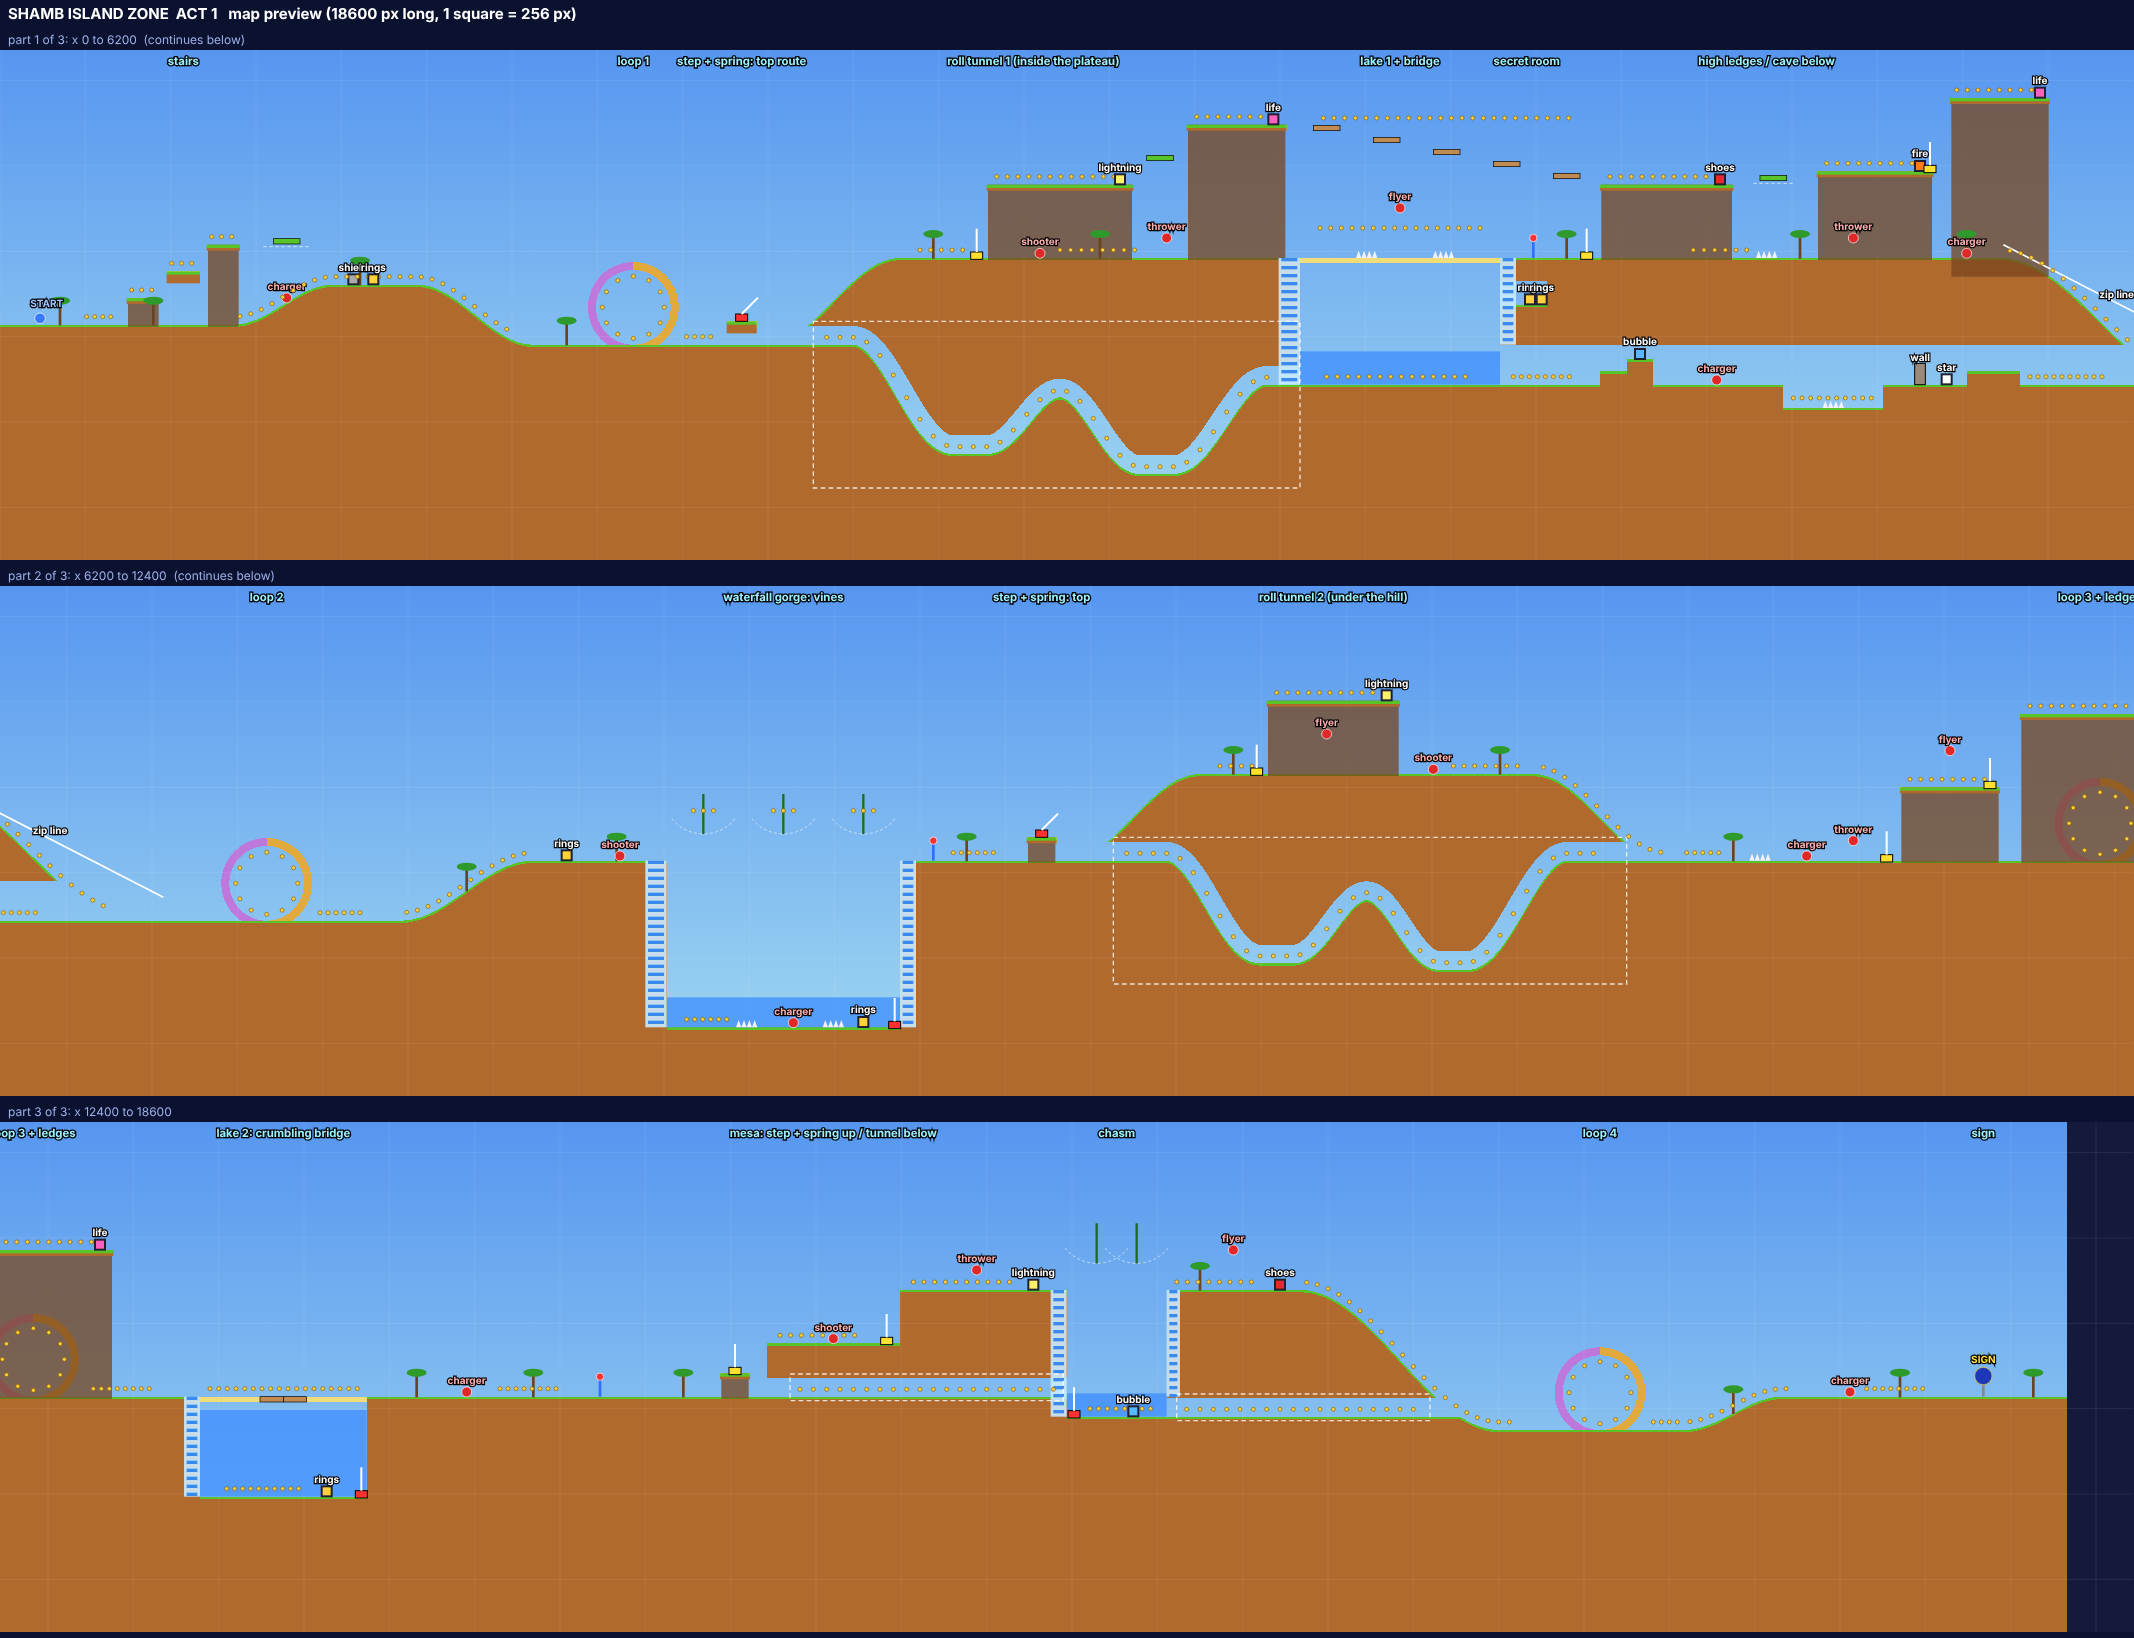
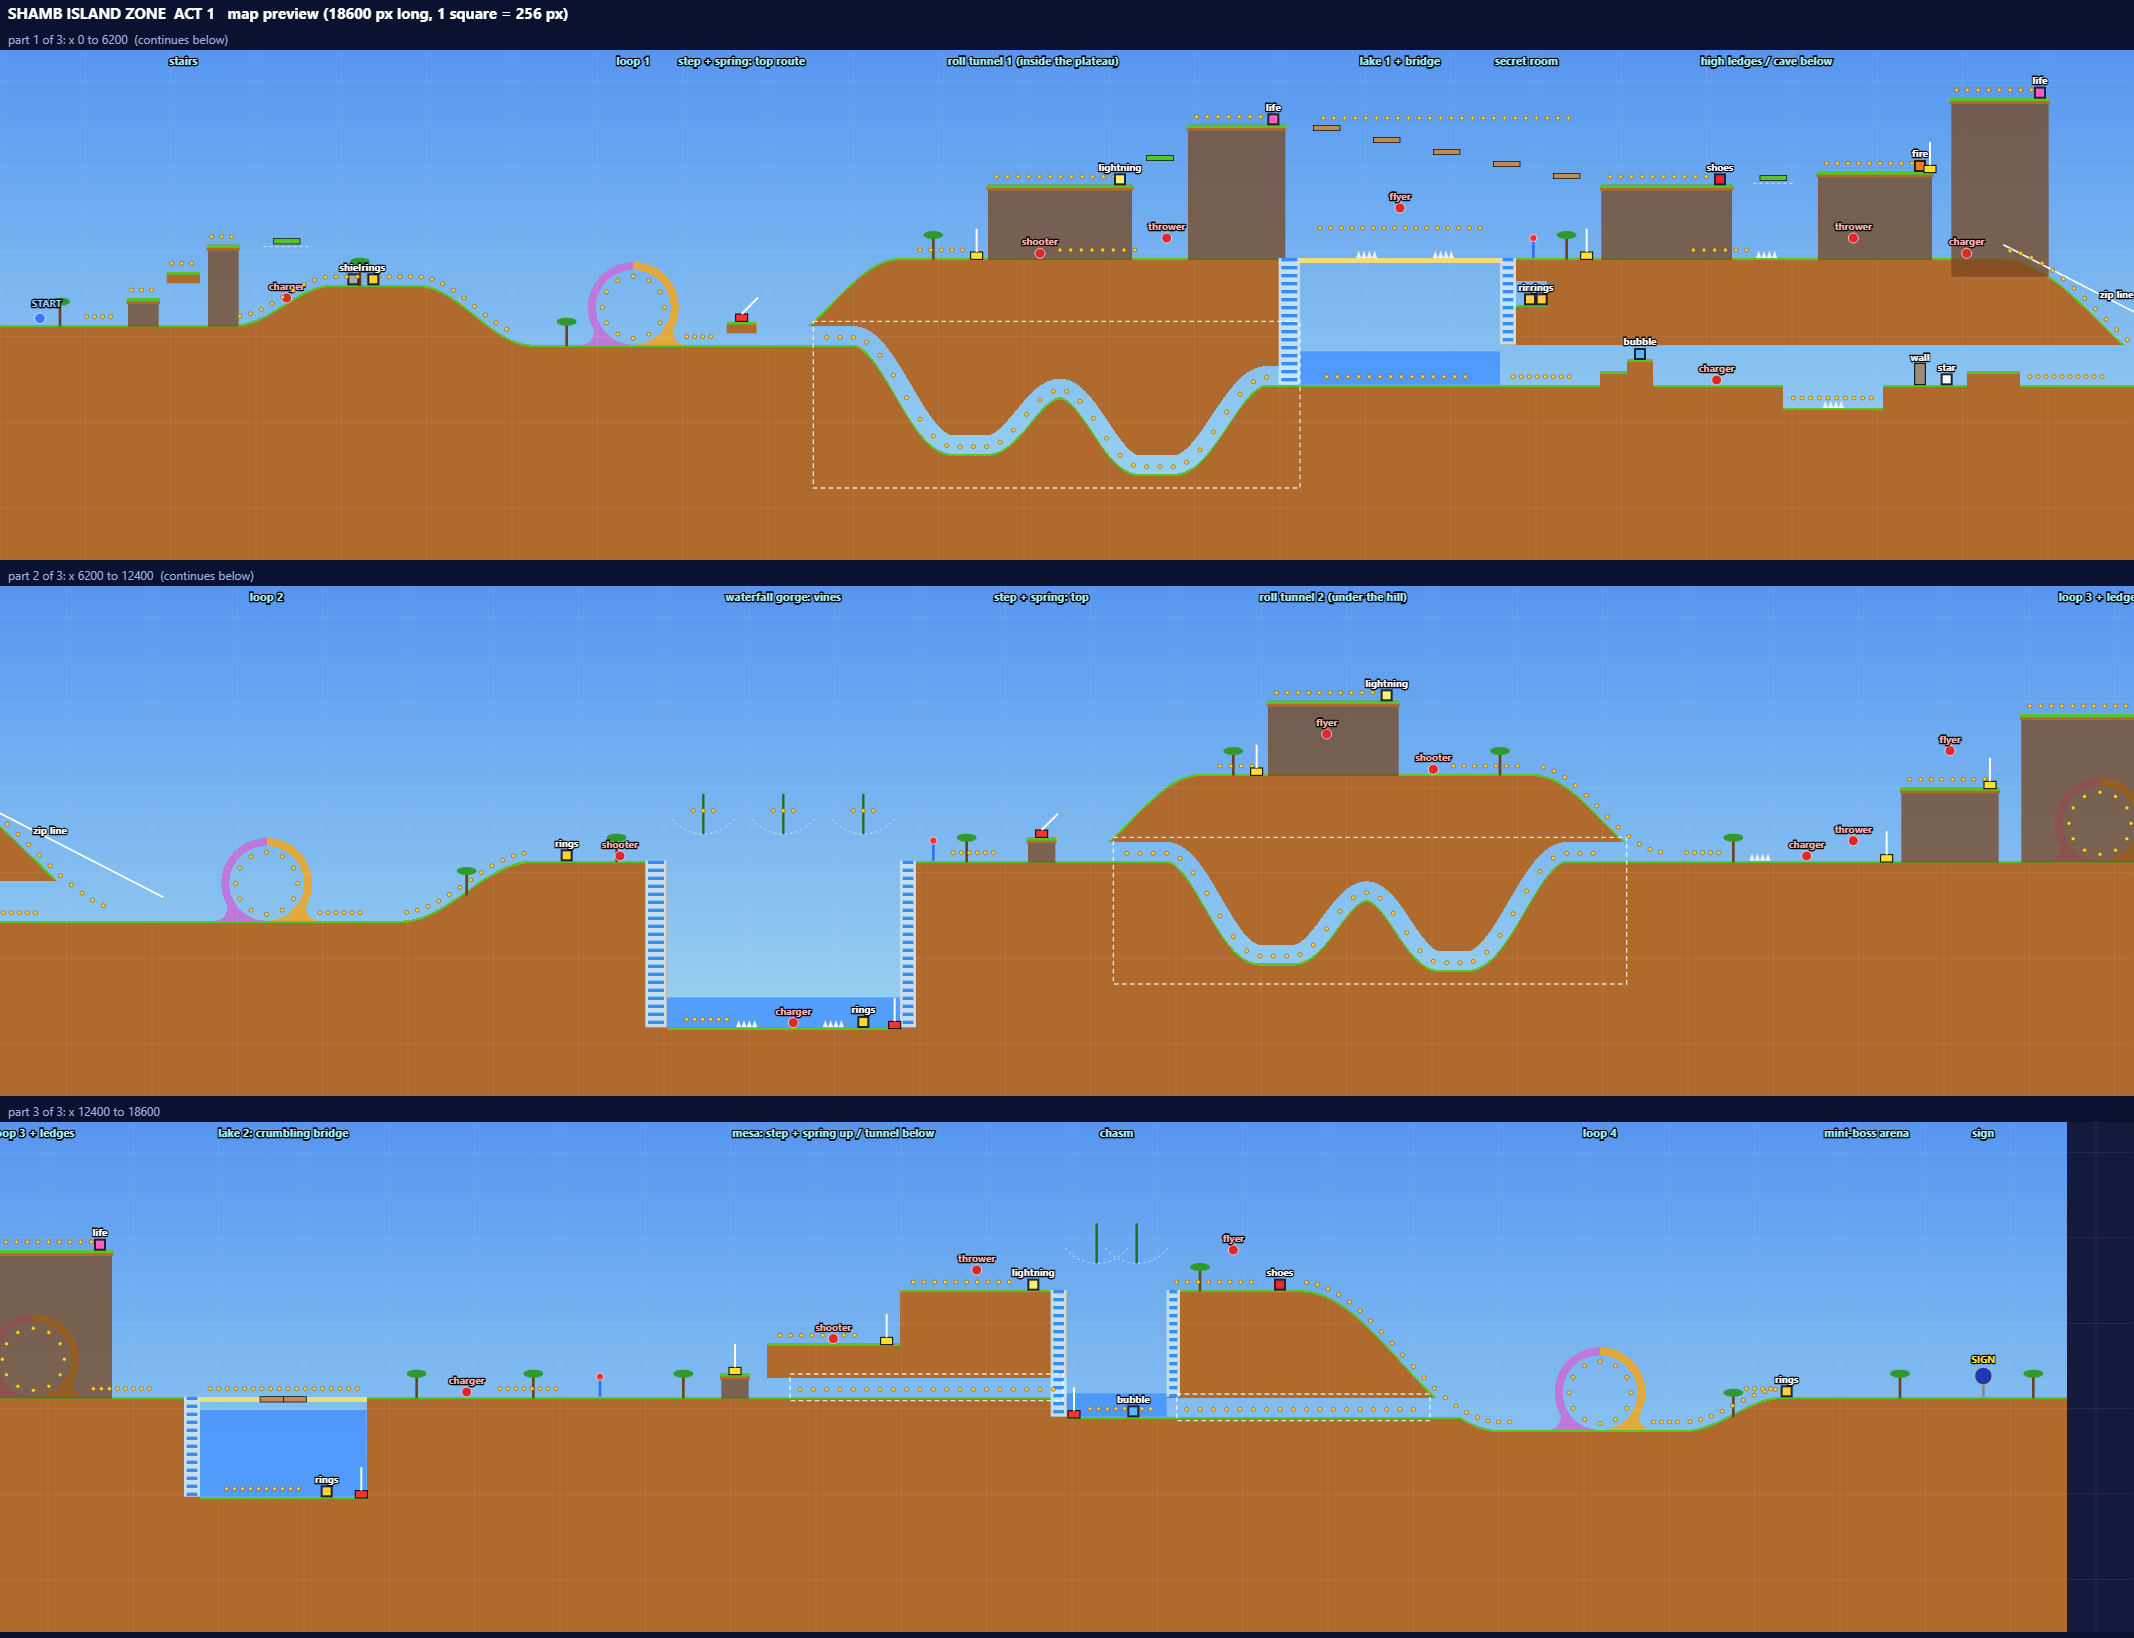
Seanic Act 1: boss has a starting position (map tool), map redrawn with the mini-boss arena

diff --git a/src/engines/s3/zone1.js b/src/engines/s3/zone1.js
@@ -114,7 +114,7 @@ function objects(){const o=[],ring=(x,y)=>o.push({type:'ring',x,y}),row=(x0,y,n,
  // ---- the last run: loop 4, the MINI-BOSS arena (owner's plan R59c: Sonic 3 puts one at the end of a zone's first act),
  // then the sign
  loopRings(17200,RUN);row(17360,RUN-24,4);land(17470,10,32);row(17640,G-24,4);mon(17760,G,'rings');// 10 rings for the fight
- o.push({type:'boss',kind:'mini',x0:17800,x1:18200,gy:G});
+ o.push({type:'boss',kind:'mini',x0:17800,x1:18200,gy:G,x:18000,y:G-170});
  o.push({type:'sign',x:18350,y:G-16});
  return o;}
 // ground scenery: bushes, flowers and stone totems on flat ground (seeded, away from lakes and gaps)
